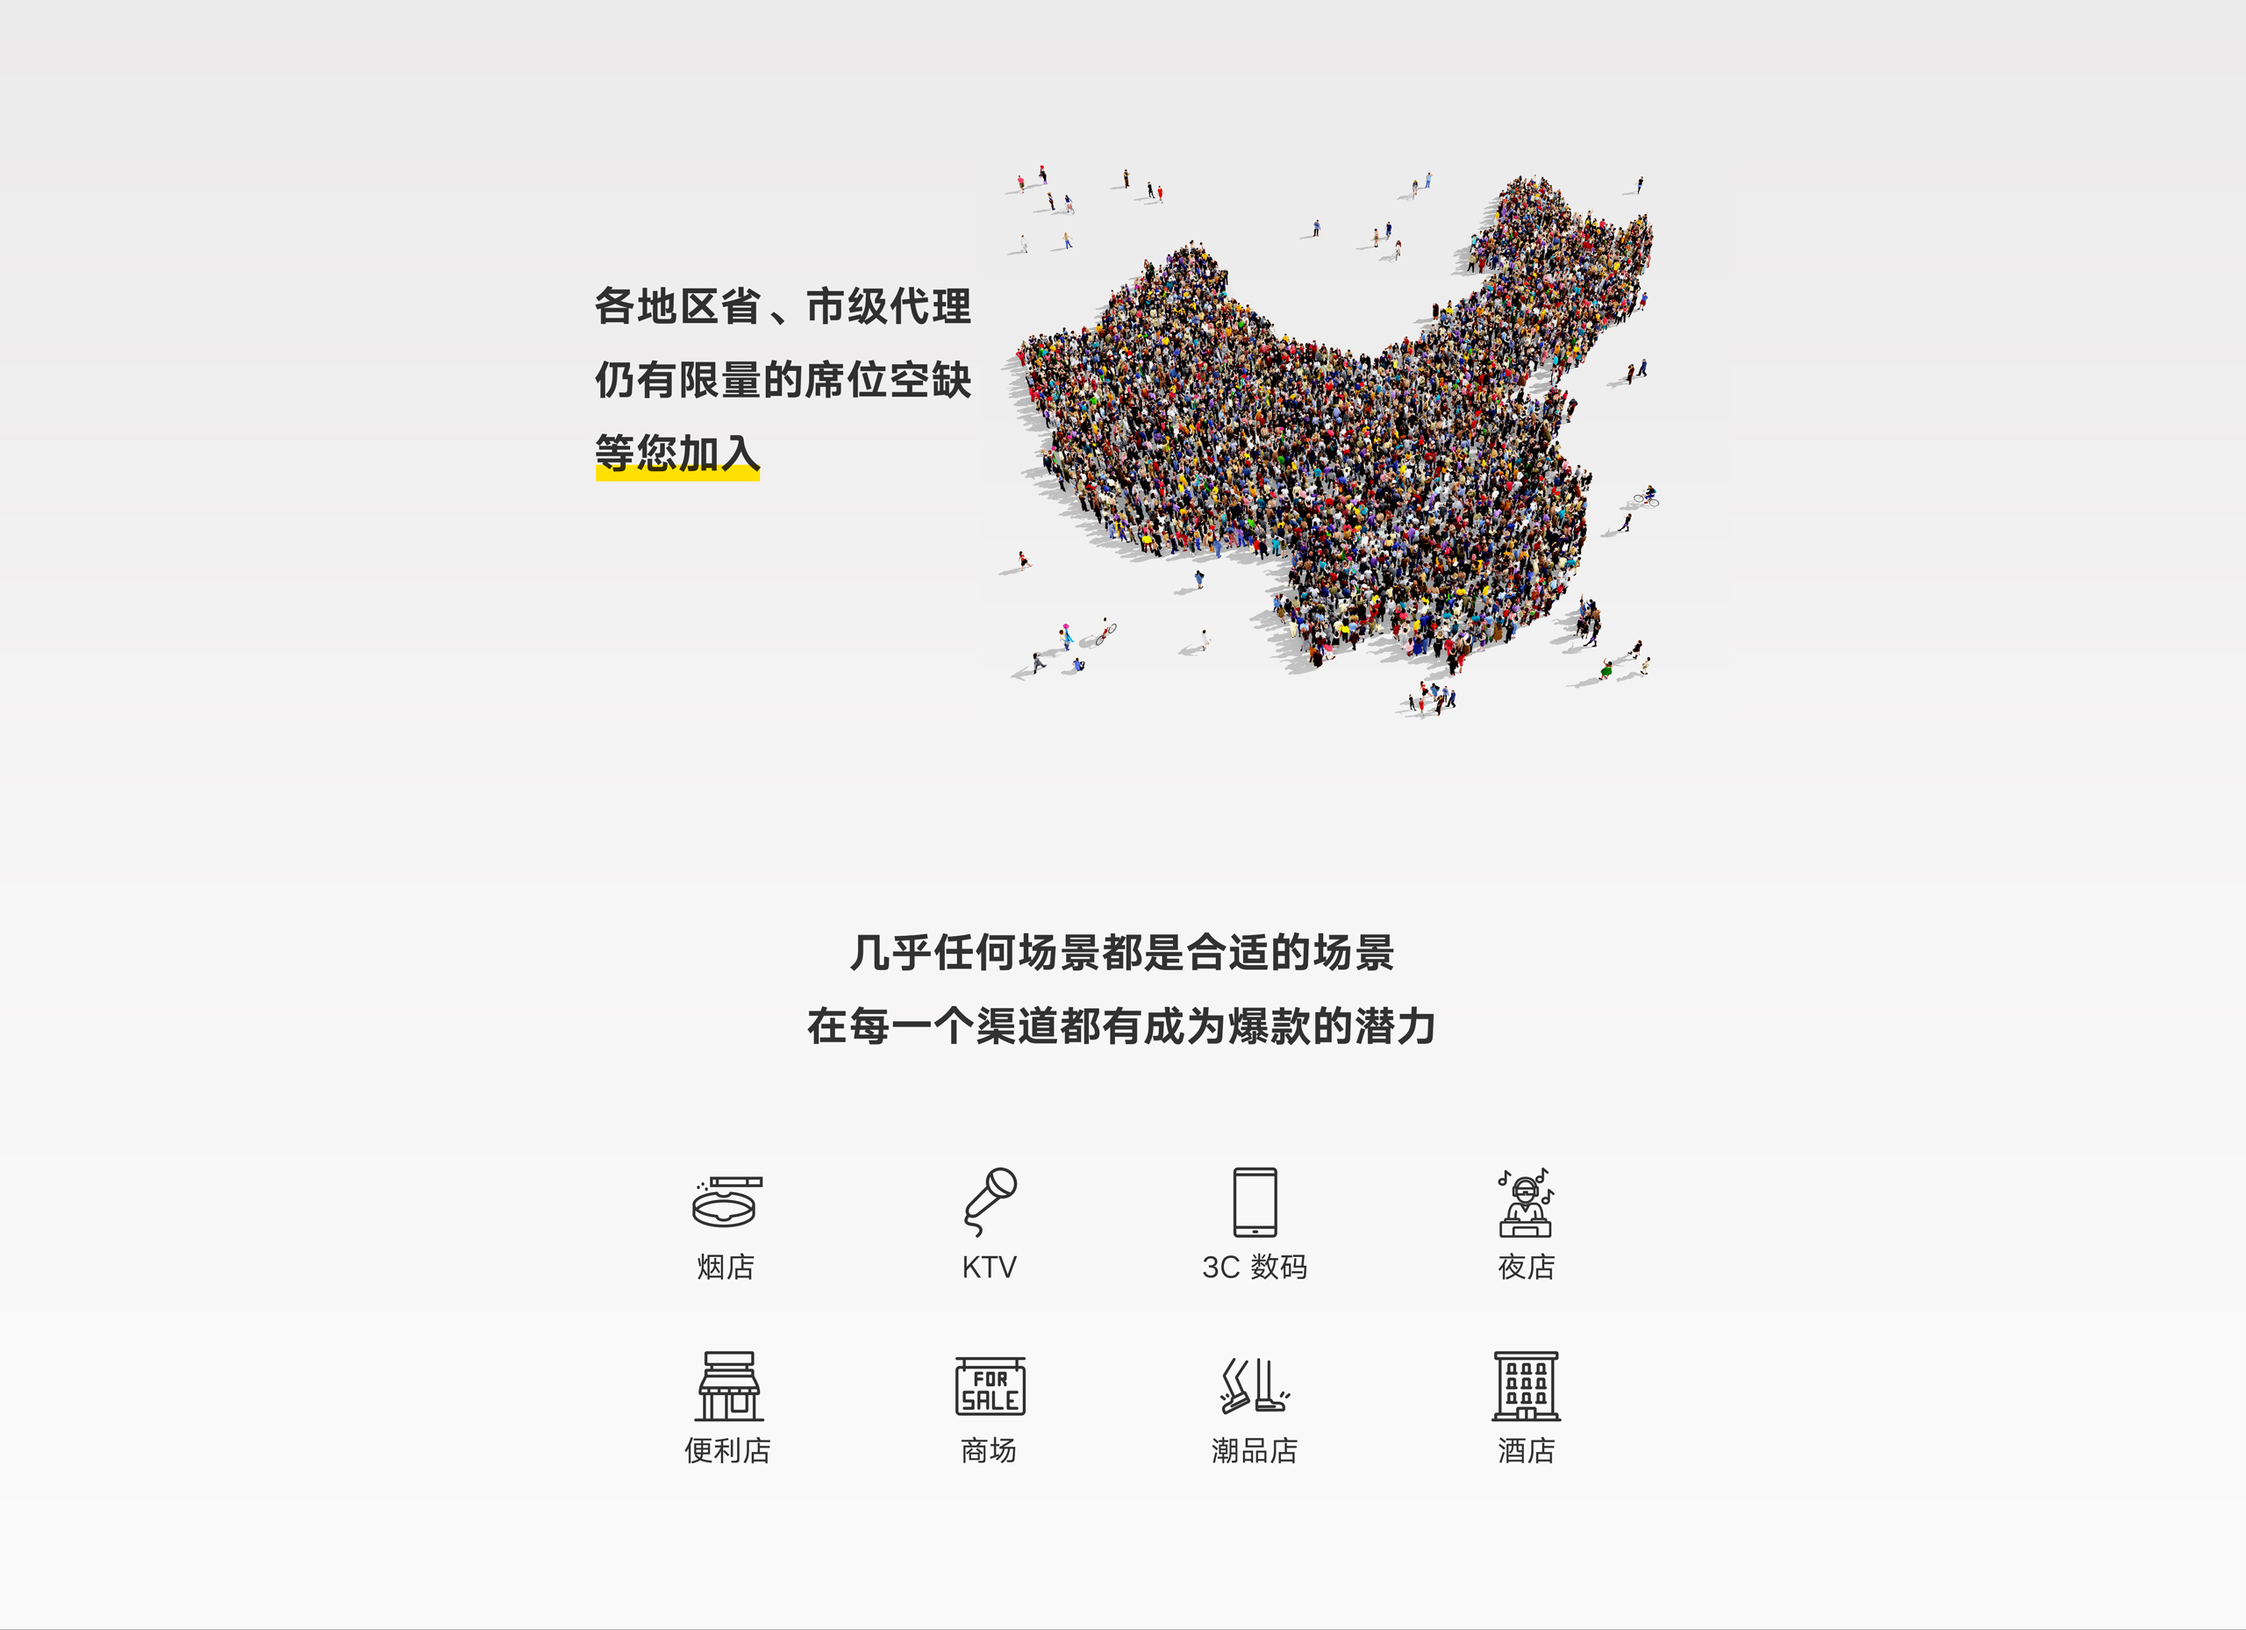
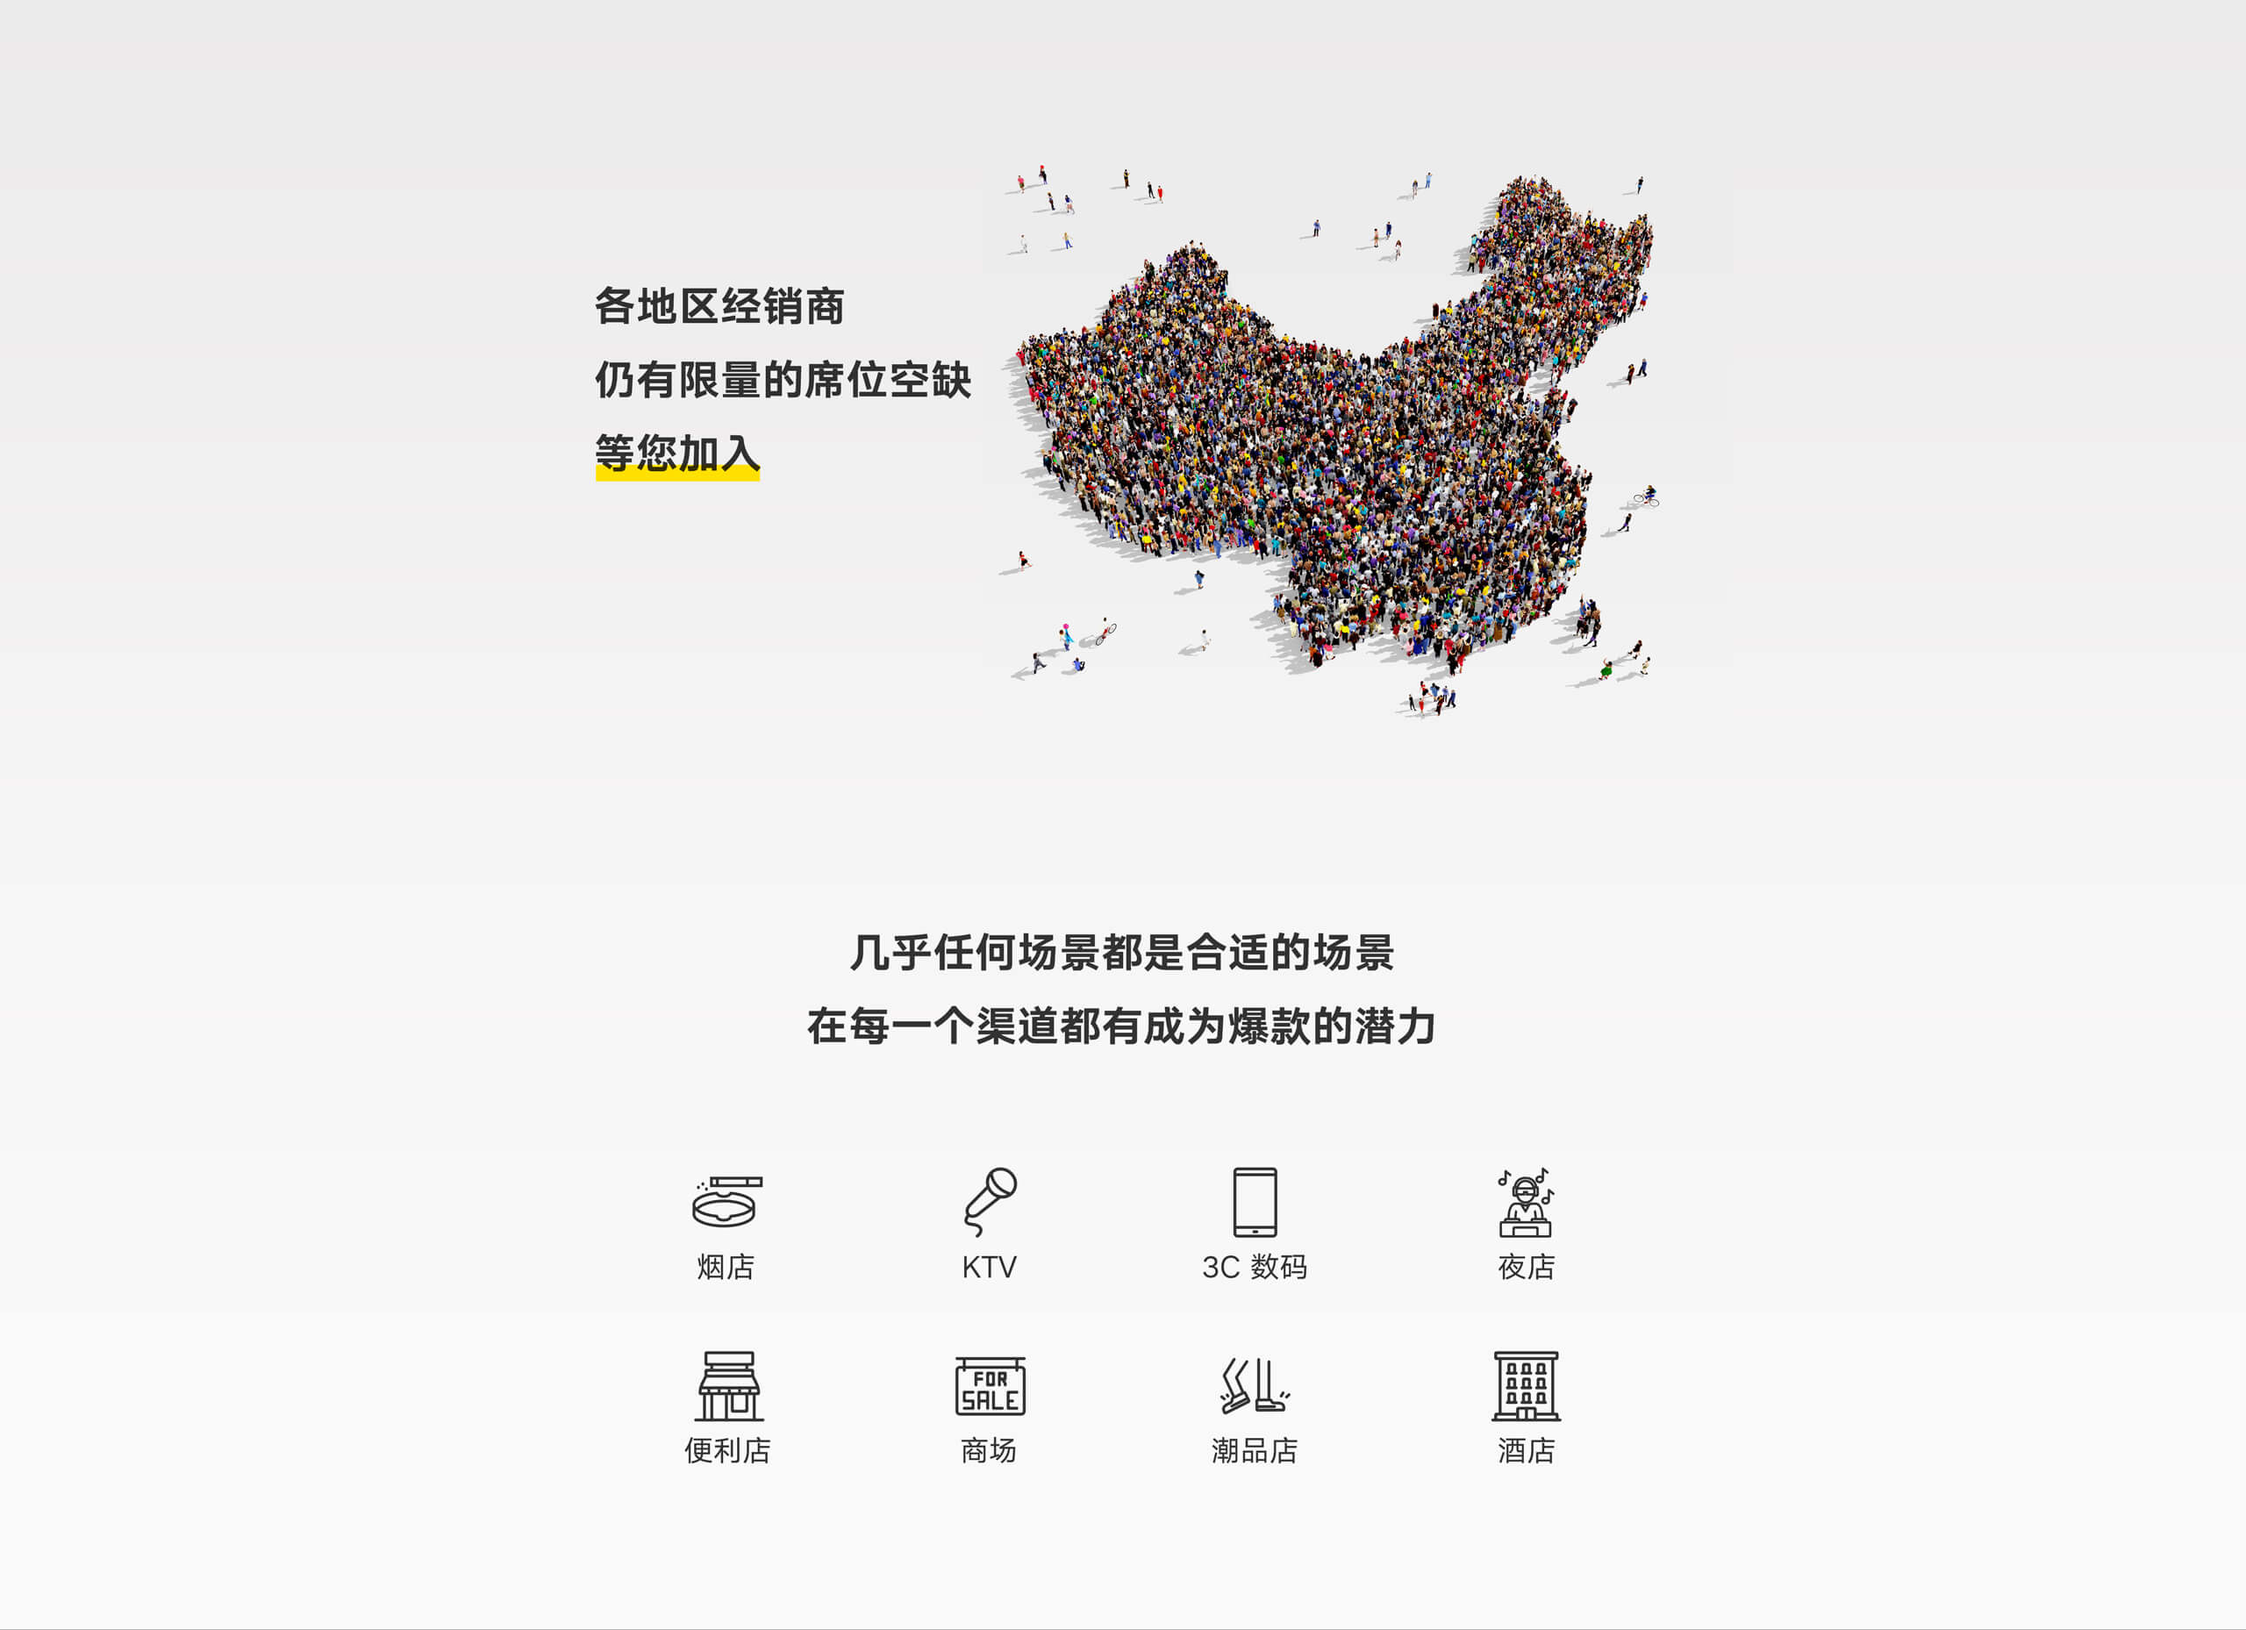
feat: update investment name and imgs.

Changed region(s): [[0.4375, 0.0936, 0.75, 0.437], [0.3125, 0.1561, 0.4375, 0.2185]]

diff --git a/plugins/ba.js b/plugins/ba.js
@@ -2,11 +2,11 @@
 export default ({ app }) => {
  if (process.env.NODE_ENV !== 'production') return
 
-  var _hmt = _hmt || [];
-  (function() {
-    var hm = document.createElement("script");
-    hm.src = "https://hm.baidu.com/hm.js?339d01968e147d0435ab2a5f59b43338";
-    var s = document.getElementsByTagName("script")[0];
-    s.parentNode.insertBefore(hm, s);
-  })();
+ var _hmt = _hmt || [];
+ (function() {
+   var hm = document.createElement("script");
+   hm.src = "https://hm.baidu.com/hm.js?c55a4bd98c7017cbc79754945896c7ca";
+   var s = document.getElementsByTagName("script")[0]; 
+   s.parentNode.insertBefore(hm, s);
+ })();
 }

diff --git a/components/header.vue b/components/header.vue
@@ -106,7 +106,7 @@ export default {
             path: ['entityshop', 'cn-entityshop', 'investment', 'cn-investment'],
             subItems: [
               {
-                name: '省市代招商',
+                name: '经销商合作',
                 link: '/investment',
                 path: ['investment', 'cn-investment'],
               },

diff --git a/components/oldHeader.vue b/components/oldHeader.vue
@@ -79,7 +79,7 @@ export default {
 					link: '/about'
         },
         {
-          name: '省市代招商',
+          name: '经销商合作',
 					alias: {
             path: ['investment'],
           },
